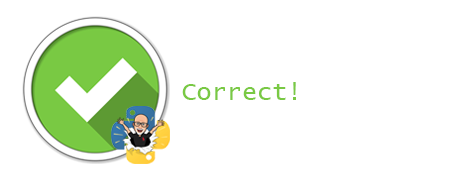
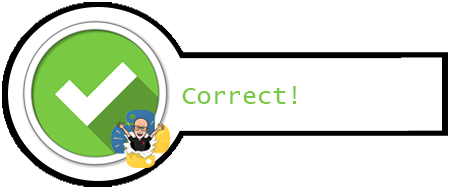
Added tooslow dialog and altered animation

diff --git a/static/js/testprep_script.js b/static/js/testprep_script.js
@@ -674,17 +674,48 @@ function showInputModal(promptMessage) {
 
 //------------------------------------------------------------------------------------------------------------------
 
-// Function to show the results bubble dialog --> gets called in 
+// Preload images
+function preloadImages(imagePaths) {
+    imagePaths.forEach((path) => {
+        const img = new Image();
+        img.src = path;
+    });
+}
+
+// List of images to preload
+const resultImages = [
+    '/static/images/correct.png',
+    '/static/images/incorrect.png',
+    '/static/images/tooslow.png'
+];
+
+// Preload the images when the window loads
+window.addEventListener('load', () => {
+    preloadImages(resultImages);
+});
+
+//------------------------------------------------------------------------------------------------------------------
+
+// Function to show the results bubble dialog --> gets called in
 function showResultDialog(isCorrect, dXP) {
     const resultDialog = document.getElementById('resultDialog');
     const resultImage = document.getElementById('resultImage');
     const dXPValue = document.getElementById('dXPValue');
 
-    // Set the correct or incorrect image
-    resultImage.src = isCorrect ? '/static/images/correct.png' : '/static/images/incorrect.png';
+    // Adjust isCorrect to treat 'late' as true for display logic
+    const isAnswerCorrect = (isCorrect === 'late' || isCorrect);
 
-    // Set the dXP value to overlay on the image
-    dXPValue.textContent = (isCorrect ? '+' : '') + dXP.toFixed(2); // Ensure it's a nice number format
+    // Determine which image to display
+    let imageSrc = '';
+    if (isCorrect === 'late') {
+        imageSrc = '/static/images/tooslow.png';
+    } else {
+        imageSrc = isCorrect ? '/static/images/correct.png' : '/static/images/incorrect.png';
+    }
+
+    // Set the appropriate image and dXP value
+    resultImage.src = imageSrc;
+    dXPValue.textContent = (isAnswerCorrect ? '+' : '') + dXP.toFixed(2); // Ensure nice number format
 
     // Show the dialog with animation
     resultDialog.style.display = 'block';
@@ -697,20 +728,33 @@ function showResultDialog(isCorrect, dXP) {
 
     // Apply upward floating effect for 3 seconds
     setTimeout(() => {
-        resultDialog.style.transition = 'transform 3s ease, opacity 1s ease';  // Transition for 3s floating + 1s fade out
-        resultDialog.style.transform = 'translateX(-50%) translateY(-30px)'; // End position (move upwards)
+        resultDialog.style.transition = 'transform 3s ease, opacity 1s ease';  // Transition for floating + fade out
+        resultDialog.style.transform = 'translateX(-50%) translateY(-18px)'; // End position (move upwards)
     }, 0); // Start the transition immediately
 
-    // Fade out in the last second and hide the dialog after 4 seconds
+    // Fade out the image and dXP value in the last second
     setTimeout(() => {
-        resultDialog.style.opacity = 0; // Fade out
-    }, 3000); // Start fading out after 3 seconds
+        resultImage.style.transition = 'opacity 1s ease'; // Transition for fading out the image
+        dXPValue.style.transition = 'opacity 1s ease';    // Transition for fading out the dXP text
+        resultImage.style.opacity = 0;  // Fade out the image
+        dXPValue.style.opacity = 0;    // Fade out the dXP text
+    }, 1250); // Start fading out just before the dialog starts fading
 
-    // Hide the dialog completely after 4 seconds
+    // Fade out the whole dialog after 3 seconds
+    setTimeout(() => {
+        resultDialog.style.transition = 'opacity 1s ease'; // Transition for fading out the dialog
+        resultDialog.style.opacity = 0; // Fade out the dialog
+    }, 1500); // Start fading out the dialog after 1.5 seconds
+
+    // Hide the dialog completely after 4 seconds (after the fade-out)
     setTimeout(() => {
         resultDialog.style.display = 'none';
         resultDialog.style.transition = ''; // Reset transition properties
-    }, 4000); // Dialog disappears after 4 seconds
+        resultImage.style.transition = ''; // Reset transition for the image
+        dXPValue.style.transition = ''; // Reset transition for the dXP text
+        resultImage.style.opacity = ''; // Reset opacity
+        dXPValue.style.opacity = ''; // Reset opacity
+    }, 3000); // Dialog disappears after 3 seconds
 }
 
 //------------------------------------------------------------------------------------------------------------------
@@ -736,7 +780,7 @@ document.getElementById("submit-answer").onclick = function() {
                 updateAnswerStatus(currentQuestionId, "correct");
             } else {
                 // Handle case where correct answer is given but not within time limit
-                alert("Correct answer, but you were too slow. No XP earned.");
+                showResultDialog("late", 0);
             }
             
             updateNavbarData(currentQuestionId);

diff --git a/static/css/styles.css b/static/css/styles.css
@@ -395,6 +395,7 @@ button.clear:hover {
 .notepad-modal.draggable {
     cursor: move;
 }
+/* ---------------------------------------------------------------------------------------*/
 
 /* Input Modal Styles */
 #inputModal {
@@ -430,7 +431,6 @@ button.clear:hover {
     font-size: 16px;
 }
 
-/* Modal content styling */
 .close {
     color: #aaa;
     float: right;
@@ -472,7 +472,7 @@ button.clear:hover {
 .result-dialog {
     display: none; /* Hidden by default */
     position: fixed;
-    top: 30%; /* Position in the middle of the screen */
+    top: 20%; /* Position near the submit button */
     left: 50%;
     transform: translateX(-50%);
     z-index: 1000;
